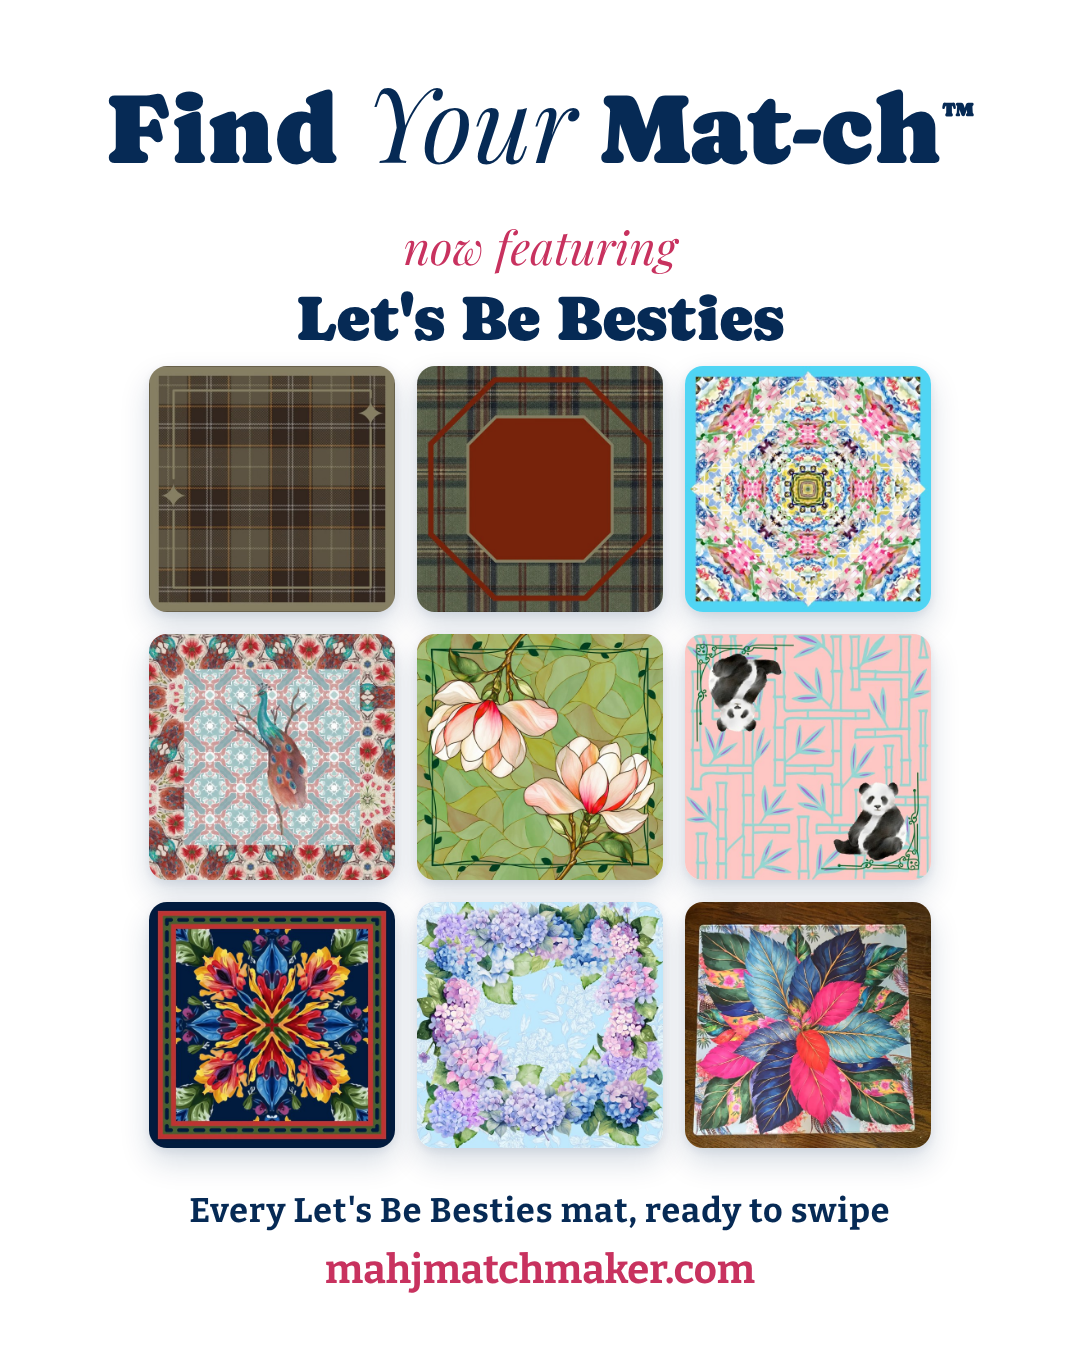
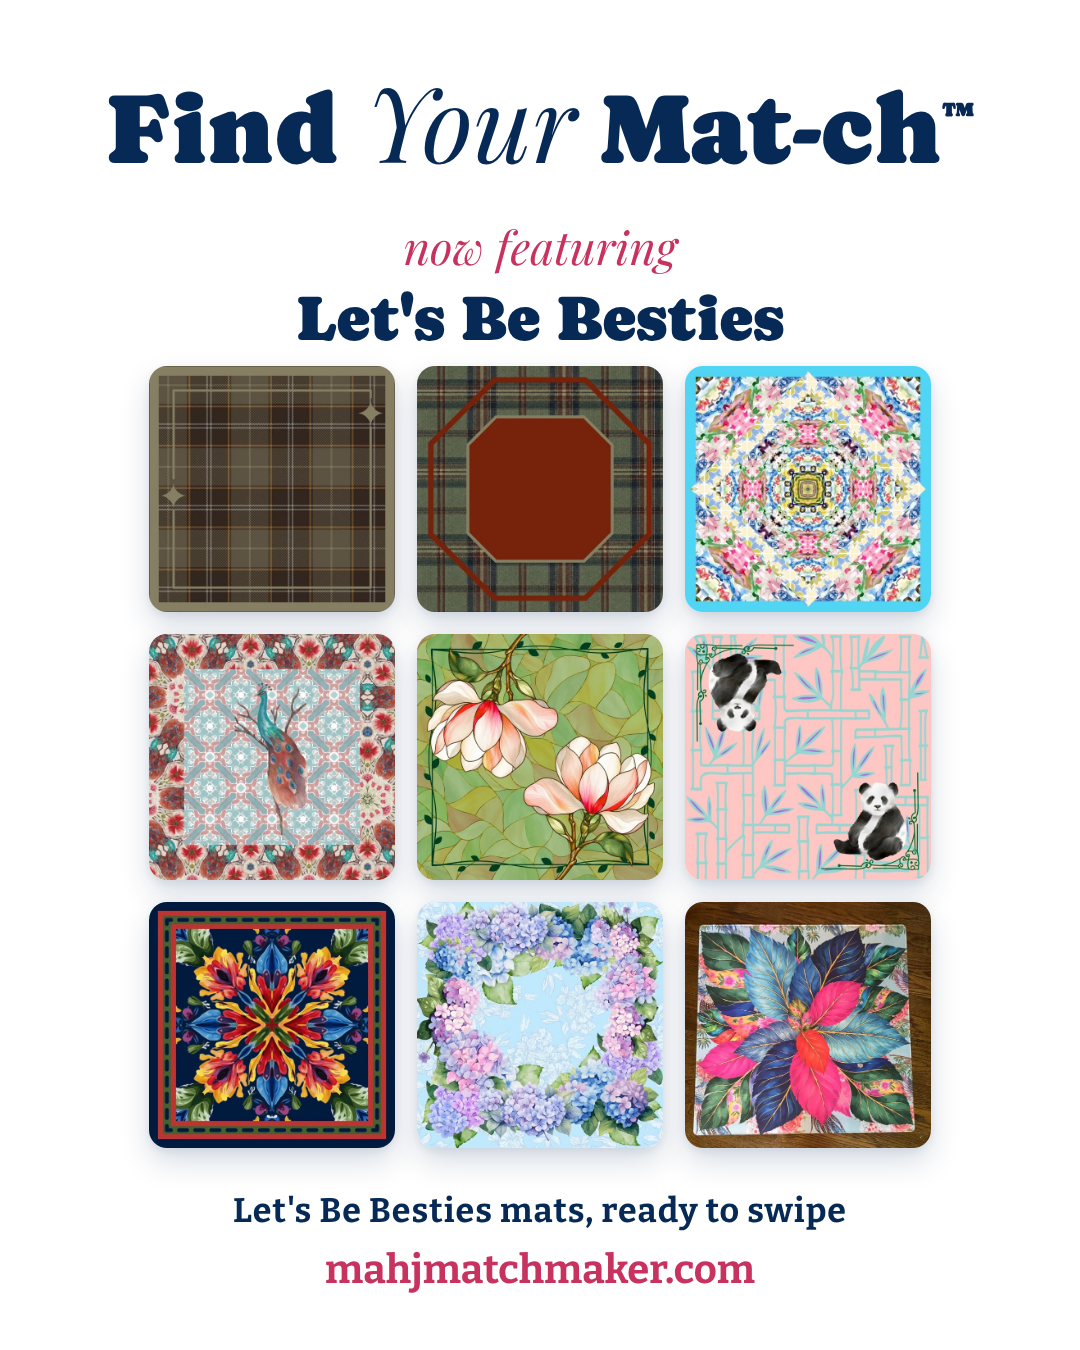
answers: partner list root cause
Claude-Session: https://claude.ai/code/session_01QxwYQtmWcAr4s5uYJYP3mA

Changed region(s): [[0.1833, 0.8711, 0.825, 0.9333]]

diff --git a/assets/social/partner-kit/eye/eye.py b/assets/social/partner-kit/eye/eye.py
@@ -27,11 +27,12 @@ def html(W,H,brand,files,cols,hy,gy,cell,gap,by,line):
 <div style="position:absolute;left:0;right:0;top:{by+56}px;text-align:center;font:700 40px Bit;color:#c8325f">mahjmatchmaker.com</div>
 </body></html>'''
 JOBS=JOBS2 if len(sys.argv)>1 else JOBS0
+if len(sys.argv)>2: JOBS={k:v for k,v in JOBS.items() if k in sys.argv[2].split(',')}
 with sync_playwright() as p:
     b=p.chromium.launch(); pg=b.new_page()
     for tag,(brand,st,po) in JOBS.items():
         L=json.load(open(tag+'.json')); fs=[L[i][0] for i in st]; fp=[L[i][0] for i in po]
-        line=f'Every {brand} mat, ready to swipe'
+        line=(f'{brand} mats, ready to swipe' if tag in ('lbb',) else f'Every {brand} mat, ready to swipe')
         n=len(fs); rows=(n+2)//3
         cell=252 if rows==4 else 300; gap=24
         gh=rows*cell+(rows-1)*gap; gy=590+(1660-590-gh)//2

diff --git a/docs/ANSWERS.md b/docs/ANSWERS.md
@@ -467,3 +467,4 @@ Format: `- YYYY-MM-DD HH:MM · chat · topic · her answer in her words (short) 
 - Oct 26 11:50pm · Matches & Catalog · FYM Version 1.3 (rack pass, v99b) published to the artifact + website preview after gate PASS + independent QA fixes; launch README 0a pin → page-block @b103418 / fym-v99.
 - Oct 26 11:12pm (Main): Virora has no email → Tiffany will DM them on Instagram Tue; Claude drafted the DM (docs/DESK.md 'Virora DM') + reminder at 10:40am ET. She'd have liked to know earlier (could have hunted an email). Open question to her: drop I Love Mahj + The Mahjong Press (no products in FYM) from tomorrow's partner email?
 - Oct 26 11:15pm (Main): Tiffany asked to move the launch site switch earlier (her mom arrives 9:45, she drives to work): site switch scheduled task moved 10:00am → 8:00am ET (trig_011jdGGQRMhNGJVvBQw8tTZn), launch email check 9:15 → 7:40am ET (trig_01ErZyguaegwpM88rte63TfY; ship/d-email-templates is v=no so it will skip). Laptop + Chrome needed 7:40–9:15am only. Posts stay 10am (Planoly), partner email 10:30 (scheduled in Squarespace tonight after 'partner yes'). Eye-candy mat grids for Britt Mills + Amanda Toppe APPROVED (she wants proof we have ALL their mats).
+- Oct 26 11:22pm (Main): Tiffany upset the sneak-peek email (sent by her 3:24pm from the FYM Partners list, 33) reached I Love Mahj + The Mahjong Press. Root cause: PARTNER-EMAIL-CHECK-oct26 flagged them (+ Virora no email) as her decision at 8:38am; never answered; list kept them. RULE going forward: any 'Tiffany decides' item from an audit must be asked as its own HQ need / chat question before the list or send is final. Asked her: tomorrow's email 1=drop both (Claude's suggestion) or 2=keep with a tailored line.
